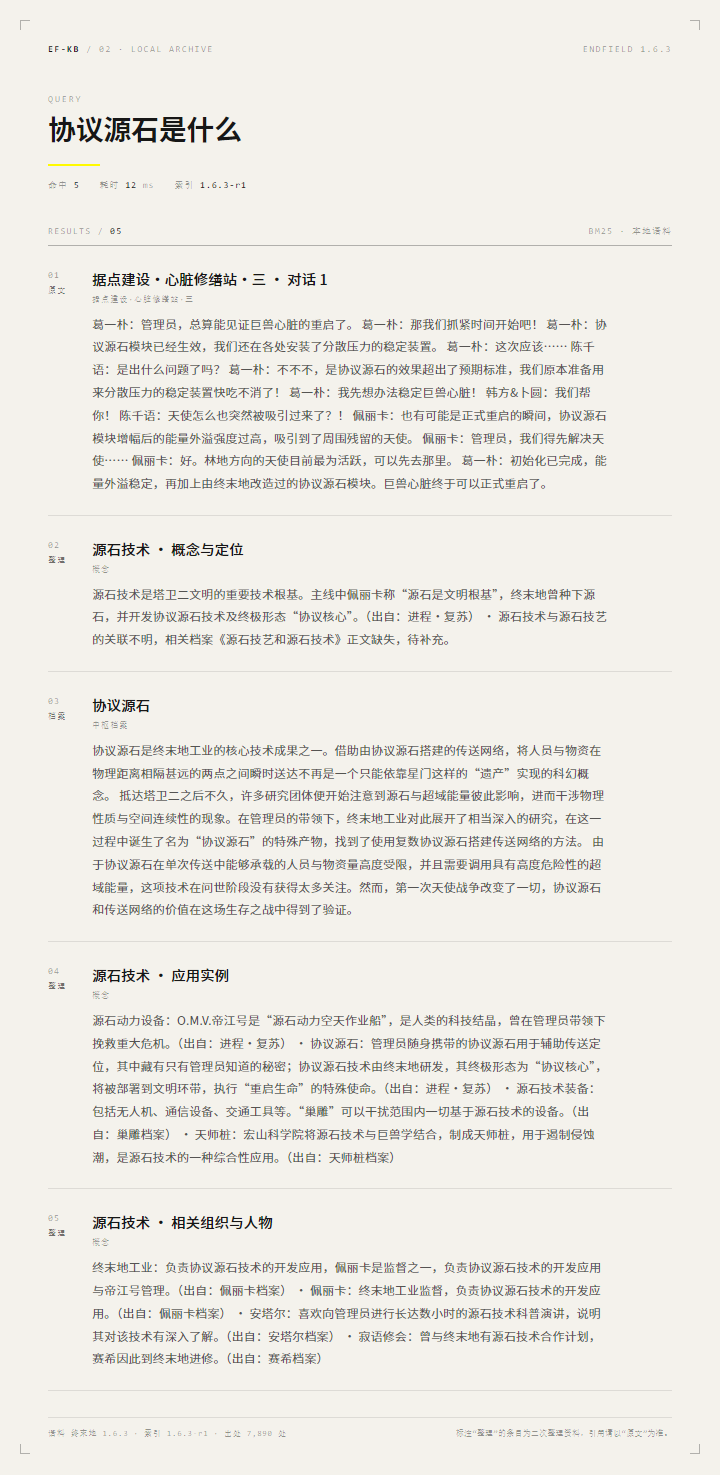
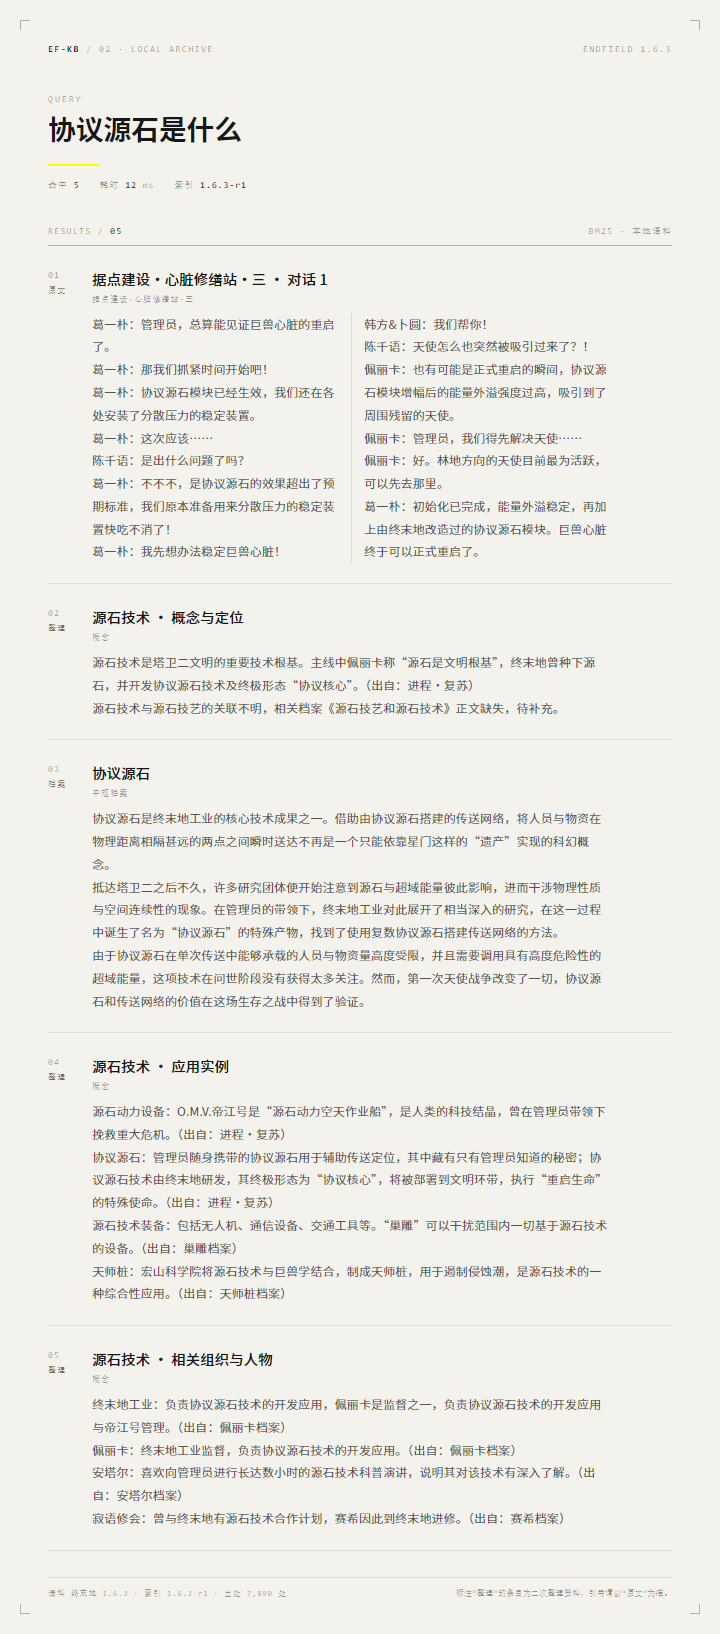
fix: keep dialogue line breaks and use two columns for long excerpts

diff --git a/templates/zmd_card.html b/templates/zmd_card.html
@@ -93,6 +93,12 @@
   .excerpt {
     margin: 9px 0 0; max-width: 540px; font-size: 12px; line-height: 1.9;
     color: var(--excerpt); letter-spacing: 0.01em;
+    white-space: pre-line;
+  }
+  .excerpt.columns {
+    column-count: 2;
+    column-gap: 26px;
+    column-rule: 1px solid var(--rule);
   }
   .side {
     text-align: right; font-family: var(--font-mono); font-size: 8px;
@@ -145,7 +151,7 @@
         <div class="body">
           <h2>{{ hit.title | e }}</h2>
           <p class="coll">{{ hit.coll | e }}</p>
-          <p class="excerpt">{{ hit.excerpt | e }}</p>
+          <p class="excerpt{% if hit.columns %} columns{% endif %}">{{ hit.excerpt | e }}</p>
         </div>
         <div class="side">{% if hit.refs %}REF · {{ hit.refs }}{% endif %}</div>
       </article>

diff --git a/core/t2i.py b/core/t2i.py
@@ -58,7 +58,7 @@ def _strip_heading(text: str, prefix: str) -> str:
 
 
 def clean_excerpt(title: str, coll: str, body: str, limit: int = 500) -> str:
-    """清洗正文：去掉资料引用串与开头的标题/集合名，再按上限截断。
+    """清洗正文：去掉资料引用串与开头的标题/集合名，保留对话换行。
 
     Args:
         title: 文档标题。
@@ -69,11 +69,26 @@ def clean_excerpt(title: str, coll: str, body: str, limit: int = 500) -> str:
     Returns:
         可直接放进卡片的摘要文本。
     """
-    text = _norm(REF_RE.sub(" ", body or ""))
-    stripped = _strip_heading(text, title)
-    if stripped == text and coll:
-        stripped = _strip_heading(text, coll)
-    text = stripped.lstrip("·:：-— ")
+    raw = REF_RE.sub(" ", body or "")
+    lines = [line.strip() for line in raw.splitlines() if line.strip()]
+    for take in (2, 1):
+        head = _canon(" ".join(lines[:take]))
+        if head and head in {_canon(title), _canon(coll)}:
+            lines = lines[take:]
+            break
+    else:
+        if lines:
+            stripped = _strip_heading(lines[0], title)
+            if stripped == lines[0] and coll:
+                stripped = _strip_heading(lines[0], coll)
+            lines[0] = stripped
+
+    cleaned: list[str] = []
+    for line in lines:
+        text = " ".join(line.split()).lstrip("·:：-— ")
+        if text:
+            cleaned.append(text)
+    text = "\n".join(cleaned).lstrip("·:：-— ")
     if limit > 0 and len(text) > limit:
         text = text[:limit] + "…"
     return text
@@ -209,16 +224,23 @@ class CardRenderer:
                 else ""
             ),
             "hits": [
-                {
-                    "index": f"{index + 1:02d}",
-                    "kind": hit.kind_label,
-                    "title": hit.title,
-                    "coll": hit.coll,
-                    "excerpt": clean_excerpt(hit.title, hit.coll, hit.body, limit),
-                    "refs": len(hit.ref_list),
-                }
+                self._item(index, hit, limit)
                 for index, hit in enumerate(hits)
             ],
+        }
+
+    @staticmethod
+    def _item(index: int, hit: Any, limit: int) -> dict[str, Any]:
+        """拼一条结果的模板数据，长摘要走两列。"""
+        excerpt = clean_excerpt(hit.title, hit.coll, hit.body, limit)
+        return {
+            "index": f"{index + 1:02d}",
+            "kind": hit.kind_label,
+            "title": hit.title,
+            "coll": hit.coll,
+            "excerpt": excerpt,
+            "columns": len(excerpt) > 320 or excerpt.count("\n") >= 8,
+            "refs": len(hit.ref_list),
         }
 
     @staticmethod

diff --git a/CHANGELOG.md b/CHANGELOG.md
@@ -12,6 +12,7 @@
 - 导入链接前后端统一只接受公网 https；出图选项只使用 T2I 服务支持的字段
 - 索引下载/上传限制 100 MB，解压后限制 512 MB，防止 zip bomb 写满磁盘
 - 出图失败会先提示再回退文本；失败日志最多每 5 分钟 warning 一次
+- 卡片正文保留对话换行，长摘要自动排成两列
 
 ## v1.4.20
 
